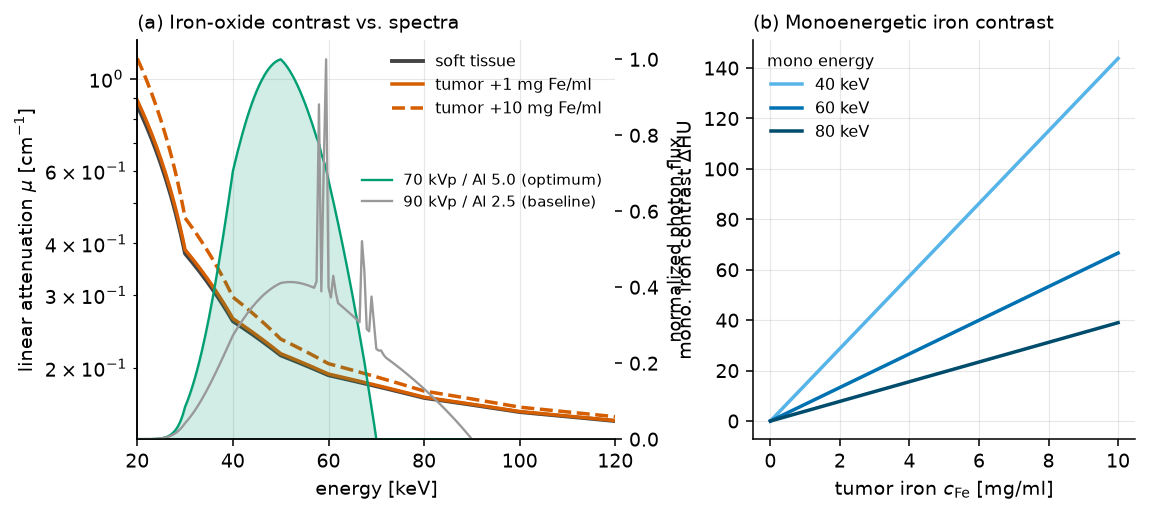
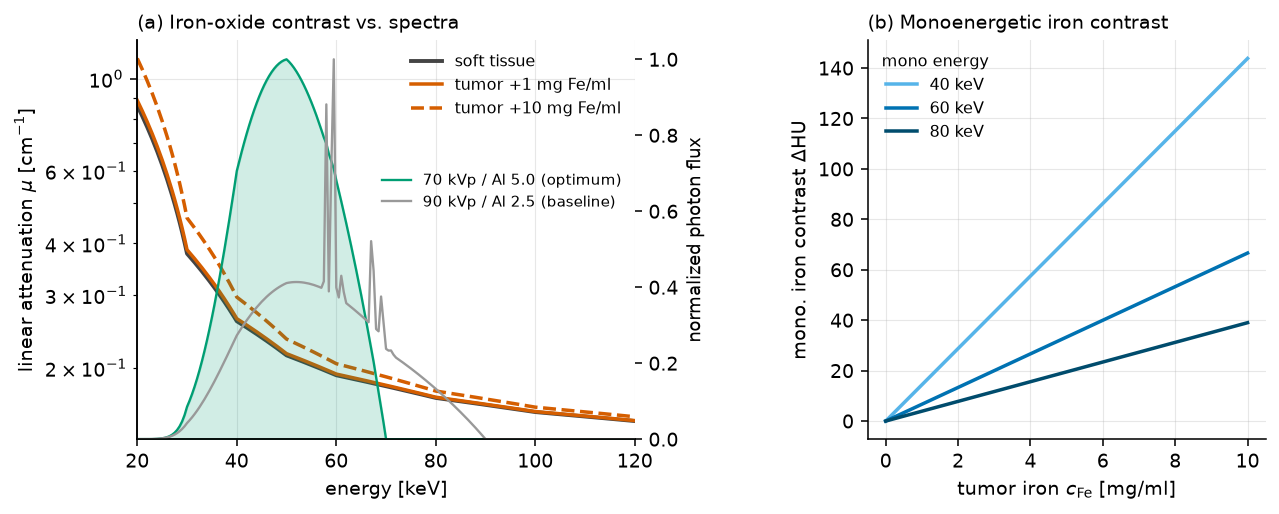
Fix overlapping text in fig_physics; share y-axis and reposition label in fig_spectral
fig_physics: widen figure to 10.4in and increase gridspec wspace to 0.52
so the left panel's twin y-axis (photon flux) label no longer collides
with the right panel's y-axis.

fig_spectral: set a common y-limit on the EID and PCD panels so they are
directly comparable, and move the '70 kVp / Al 5.0' optimum annotation
into the open upper-right area, clear of the curve and the panel title.

diff --git a/src/make_paper_figures.py b/src/make_paper_figures.py
@@ -104,8 +104,8 @@ def fig_physics():
     f70n = f70 / f70.max()
     f90n = f90 / f90.max()
 
-    fig = plt.figure(figsize=(9.2, 3.7))
-    gs = gridspec.GridSpec(1, 2, width_ratios=[1.25, 1.0], wspace=0.32)
+    fig = plt.figure(figsize=(10.4, 3.7))
+    gs = gridspec.GridSpec(1, 2, width_ratios=[1.25, 1.0], wspace=0.52)
 
     # (a) attenuation + spectra
     ax = fig.add_subplot(gs[0])
@@ -372,6 +372,10 @@ def fig_spectral():
 
     fig, axes = plt.subplots(1, 2, figsize=(9.2, 3.8), sharey=True)
     cmap = plt.cm.viridis(np.linspace(0.15, 0.85, len(filters)))
+    # common y-limit so EID and PCD panels are directly comparable
+    all_cnr = [r["cnr"] for r in sw if r["name"] == top_name
+               and r["filter"] in filters and r["detector"] in ("EID", "PCD")]
+    ymax = max(all_cnr) * 1.12
     for ax, det in zip(axes, ("EID", "PCD")):
         for fl, col in zip(filters, cmap):
             pts = sorted([r for r in sw if r["detector"] == det and r["filter"] == fl
@@ -381,6 +385,7 @@ def fig_spectral():
         ax.set_xlabel("tube voltage [kVp]")
         ax.set_title(det, fontsize=11)
         ax.set_xticks(kvps)
+        ax.set_ylim(0, ymax)
     axes[0].set_ylabel(r"CNR at $c_{\mathrm{Fe}}\approx$1.09 mg/ml")
     axes[0].legend(title="Al filter", fontsize=8, title_fontsize=8)
 
@@ -391,8 +396,11 @@ def fig_spectral():
         cval = optpt[0]["cnr"]
         axes[1].scatter([70.0], [cval], s=140, facecolors="none",
                         edgecolors=OPT_C, linewidths=2.2, zorder=5)
+        # place the label in the open upper-right area, clear of the curve
+        # (raised ~1 cm vs. the previous crowded position, below the panel title)
         axes[1].annotate("optimum\n70 kVp / Al 5.0", xy=(70.0, cval),
-                         xytext=(85, cval * 0.72), fontsize=8, color=OPT_C,
+                         xytext=(103, cval + 0.02 * ymax), fontsize=8, color=OPT_C,
+                         ha="center", va="center",
                          arrowprops=dict(arrowstyle="->", color=OPT_C, lw=1.2))
     fig.suptitle("Spectral shaping sweep: tube voltage x Al filtration", fontsize=10, y=1.0)
     fig.tight_layout()